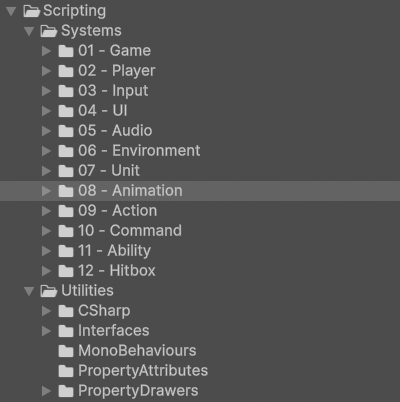
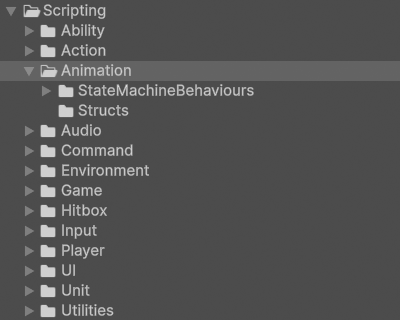
Updated images to reflect path limitation fix

Changed region(s): [[0.06, 0.0, 0.63, 1.0], [0.0, 0.0312, 0.03, 0.0625]]

diff --git a/docs/unity-editor.md b/docs/unity-editor.md
@@ -18,18 +18,18 @@ The [Project window](https://docs.unity3d.com/Manual/ProjectView.html) is locate
 | `Arcabidi`            |  The company folder for all products created by Arcabidi. |
 | `BeatEmUpTemplate`            | The main folder for all files related to the 2.5D Beat 'Em Up Template. |
 | `Assets`            | Contains all assets related to the 2.5D Beat 'Em Up Template. Its subfolders are named after sections from the online [Unity 6 User Manual](https://docs.unity3d.com/6000.0/Documentation/Manual/UnityManual.html) to allow quick references to official documentation.  |
-| `Animation`            | Contains all non-code files related to animation. See the [Animation](scripting/systems/animation.md#animation-folder) page for more information. |
-| `Audio`            | Contains all non-code files related to audio. See the [Audio](scripting/systems/audio.md#audio-folder) page for more information. |
+| `Animation`            | Contains all non-code files related to animation. See the [Animation](systems/animation.md#animation-folder) page for more information. |
+| `Audio`            | Contains all non-code files related to audio. See the [Audio](systems/audio.md#audio-folder) page for more information. |
 | `MaterialsAndShaders`            | Contains all non-code files related to how surfaces are rendered. See the [Materials](https://docs.unity3d.com/Manual/Materials.html) and [Textures](https://docs.unity3d.com/Manual/Textures-landing.html) pages in the Unity 6 User Manual for more information. |
 | `Rendering`            | Contains all non-code files related to how scene content is displayed on screen. See the [Universal Render Pipeline asset](https://docs.unity3d.com/Manual/urp/urp-asset-and-renderer.html) page in the Unity 6 User Manual for more information. |
-| `Scripting`            | Contains all code files. See the [Scripting](scripting/index.md) page for more information. |
+| `Scripting`            | Contains all code files. See the [Systems](systems/index.md#scripting-folder) page for more information. |
 | `Video`            | Contains all non-code files related to video. See the [Video Clip Importer](https://docs.unity3d.com/Manual/class-VideoClip.html) page in the Unity 6 User Manual for more information.|
 | `WorkingInUnity`            | Contains all non-code files related to working in Unity. |
-| `2D`            | Contains all non-code files related to 2D development. See the [PSD Importer](https://docs.unity3d.com/Packages/com.unity.2d.psdimporter@9.0/manual/index.html) page in the Unity 6 User Manual for more information. |
 | `GameObjects`            | Contains all non-code files related to GameObjects. See the [Models](https://docs.unity3d.com/Manual/models.html) and [Prefabs](https://docs.unity3d.com/Manual/Prefabs.html) pages in the Unity 6 User Manual for more information. |
-| `Input`            | Contains all non-code files related to input. See the [Input](scripting/systems/input.md#input-folder) page for more information.|
+| `Input`            | Contains all non-code files related to input. See the [Input](systems/input.md#input-folder) page for more information.|
 | `Scenes`            | Contains all non-code files related to scenes. See the [Scenes](scenes.md) page for more information. |
-| `UI`            | Contains all non-code files related to UI. See the [User Interface](scripting/systems/user-interface.md#ui-folder) page for more information.|
+| `UI`            | Contains all non-code files related to UI. See the [UI](systems/ui.md#ui-folder) page for more information.|
+| `Licenses`            | Contains all licenses associated with any third party assets used in the package. `Third-Party Notices.txt` details which asset uses which license. |
 | `Packages`            | Contains a`manifest.json` file that lists all package dependencies in the 2.5D Beat 'Em Up Template for reference. |
 | `ProjectSettings`            | Contains all [project settings](https://docs.unity3d.com/Manual/comp-ManagerGroup.html) for the 2.5D Beat 'Em Up Template:<br><br>`DynamicsManager` configures [physics collision matrices](https://docs.unity3d.com/Manual/LayerBasedCollision.html).<br>`EditorBuildSettings` sets the [scene list](https://docs.unity3d.com/6000.0/Documentation/Manual/build-profile-scene-list.html). <br>`GraphicsSettings` sets the [default render pipeline](https://docs.unity3d.com/Manual/class-GraphicsSettings.html#:~:text=Always%2Dincluded%20Shaders-,Set%20Default%20Render%20Pipeline%20Asset,-Use%20the%20Default).<br>`ProjectSettings` sets general project settings.<br>`QualitySettings` sets the [render pipeline asset](https://docs.unity3d.com/Manual/class-QualitySettings.html#:~:text=Meshes-,Rendering,-Property).<br>`TagManager` defines [tags and layers](https://docs.unity3d.com/Manual/class-TagManager.html).<br><br>It is recommended to import this package to a clean Unity project to prevent overwriting any existing project settings. After creating one, copy these files to the `[Your Project]/ProjectSettings` folder to overwrite the default project settings. |
 
@@ -39,7 +39,7 @@ The [Project window](https://docs.unity3d.com/Manual/ProjectView.html) is locate
     ![hierarchy_window_1.png](assets/images/hierarchy_window_1.png)
 </figure>
 
-The [Hierarchy window](https://docs.unity3d.com/Manual/Hierarchy.html) is located in the top left corner of the Unity Editor by default. For this template GameObjects in the hierarchy have been divided based on the [system](scripting/systems/index.md) they belong to and sorted by their transforms rather than alphanumerically. For example, in the Training scene above the UIManager is placed under the UI system while the AudioManager is placed under the Audio system.
+The [Hierarchy window](https://docs.unity3d.com/Manual/Hierarchy.html) is located in the top left corner of the Unity Editor by default. For this template GameObjects in the hierarchy have been divided based on the [system](systems/index.md) they belong to and sorted by their transforms rather than alphanumerically. For example, in the Training scene above the UIManager is placed under the UI system while the AudioManager is placed under the Audio system.
 
 !!! Info
 

diff --git a/docs/systems/index.md b/docs/systems/index.md
@@ -1,0 +1,48 @@
+# Systems
+
+!!! Summary
+
+    This page outlines the core systems that make up the 2.5D Beat 'Em Up Template.
+
+## Overview
+
+There are 13 total systems that contribute to the template's core functionality. Some systems are made entirely out of code files while others have both code and non-code aspects. See each system's dedicated page for more information.
+
+<div class="grid cards" markdown>
+- [__Ability__](ability.md)<br>everything and anything units can do
+- [__Action__](action.md)<br>control what a unit knows how to do
+- [__Animation__](animation.md)<br>bring objects in the scene to life
+- [__Audio__](audio.md)<br>play dynamic background music and sound effects
+- [__Command__](command.md)<br>determine when in-game actions should be performed
+- [__Environment__](environment.md)<br>build immersive and responsive worlds
+- [__Game__](game.md)<br>change the game's state and direct its flow
+- [__Hitbox__](hitbox.md)<br>transfer data between two bodies through collision detection
+- [__Input__](input.md)<br>switch between different control schemes
+- [__Player__](player.md)<br>manage both human and AI players
+- [__UI__](ui.md)<br>design custom menus and transitions
+- [__Unit__](unit.md)<br>create, customize and manage the lifetime of in-game units
+- [__Utilities__](utilities.md)<br>general-purpose tools that can be used anywhere, in any game, when needed
+</div>
+
+## Scripting folder
+
+All of the code files for each system are located at `BeatEmUpTemplate/Assets/Scripting`.
+
+<figure markdown="span">
+    ![scripting.png](../assets/images/scripting.png)
+</figure>
+
+Each folder is further divided by script type:
+
+| <div style="width:190px" /> Folder Name | Description                          |
+| ---------------: | :----------------------------------- |
+| `CSharp`            | Contains scripts that are not meant to be attached to GameObjects in the scene. Many of them represent static event classes that are meant to be invoked, or are abstract classes representing concepts like [Players](player.md#players) or [Teams](unit.md#teams). |
+| `Enums`            | Contains groups of related constants that are meant to be used by other scripts. All classes in these folders use the `enum` keyword in their declaration. |
+| `Interfaces`            | Contain collections of method signatures and properties that can be implemented by other scripts. All classes in these folder use the `interface` keyword in their declaration.<br><br>Interfaces act like a contract; when a class implements an interface, an instance of that class can also be treated as an instance of that interface. This functionality means that two unrelated classes can be treated in the same way through an interface that they both implement. |
+| `MonoBehaviours`            | Contain scripts that are meant to be attached to GameObjects in the scene as components. All classes in these folders inherit from Unity's [MonoBehaviour](https://docs.unity3d.com/6000.0/Documentation/Manual/class-MonoBehaviour.html) class. Many of them represent managers, controllers, and responders specific to scenes or prefabs. |
+| `PropertyAttributes`            | Contains custom attributes for script variables. All classes in this folder derive from Unity's base [PropertyAttribute](https://docs.unity3d.com/6000.0/Documentation/ScriptReference/PropertyAttribute.html) class. |
+| `PropertyDrawers`            | Contains custom drawers to control how script variables with custom PropertyAttributes appear in the Inspector. All classes in this folder derive from Unity's base [PropertyDrawer](https://docs.unity3d.com/6000.0/Documentation/ScriptReference/PropertyDrawer.html) class. |
+| `ScriptableObjects`            | Contains centralized data that can be conveniently accessed from scenes and assets within a project. All classes in this folder derive from Unity's base [ScriptableObject](https://docs.unity3d.com/6000.0/Documentation/ScriptReference/ScriptableObject.html) class.<br><br>ScriptableObjects are stored on disk and live independently of GameObjects and class instances. They are used as data containers to save large amounts of data, reducing a project’s memory usage by not duplicating values. |
+| `StateMachineBehaviours`            | Contains components that can be added to a state machine state. All classes in this folder derive from Unity's base [StateMachineBehaviour](https://docs.unity3d.com/ScriptReference/StateMachineBehaviour.html) class. See the [Animation](animation.md#statemachinebehaviours) page for more information. |
+| `Structs`            | Contains user-defined data types that combine fields of different types underneath a single type. All classes in this folder use the `struct` keyword in their declaration. |
+| `VisualElements`            | Contains objects that are part of the UIElements visual tree. All classes in this folder derive from Unity's base [VisualElement](https://docs.unity3d.com/6000.0/Documentation/ScriptReference/UIElements.VisualElement.html) class. See the [UI](ui.md#visualelements) page for more information. |

diff --git a/docs/scenes.md b/docs/scenes.md
@@ -31,7 +31,7 @@ All [scene](https://docs.unity3d.com/Manual/CreatingScenes.html) files are locat
 | <div style="width:160px" /> Scene Name | Description                          |
 | ---------------: | :----------------------------------- |
 | `Initialization`            | The only non-Addressable scene in the project and the initial scene in the final build. It is near empty by design to minimize build size since all other scenes can be loaded dynamically as needed. All this scene does is load the Persistent scene before unloading itself. |
-| `Persistent`            | This scene persists throughout the lifetime of the game and does not unload until the application exits. It contains all essential GameObjects and scripts that shouldn’t be destroyed between scenes such as the [SceneLoader](scripting/systems/game.md#sceneloaders) and [Cursor](scripting/systems/user-interface.md#cursor).<br><br>It allows these core game systems to initialize completely before additively loading one of the following scenes (by default this is the Boot scene, but it can load into any other scene directly for development purposes). |
+| `Persistent`            | This scene persists throughout the lifetime of the game and does not unload until the application exits. It contains all essential GameObjects and scripts that shouldn’t be destroyed between scenes such as the [SceneLoader](systems/game.md#sceneloaders) and [Cursor](systems/ui.md#cursor).<br><br>It allows these core game systems to initialize completely before additively loading one of the following scenes (by default this is the Boot scene, but it can load into any other scene directly for development purposes). |
 | `Boot`            | The first scene that has any visual elements. It plays the game’s opening credits while asynchronously loading the Title scene in the background. Once it is 90% loaded the player can either skip the rest of the credits or wait until they finish, after which the Title scene will fully load and the Boot scene will unload. |
 | `Title`            | The scene that contains the game’s title along with the main menu. The player can choose to Start The Game after which the Training Scene will load and the Title scene will unload. |
 | `Training`            | The scene that contains the core gameplay loop. It is presented in 2.5D, where graphics are in 3D but gameplay is in 2D. The player fights until all enemies are defeated or they are.<br><br>If the player is defeated they will have until a countdown timer expires to attempt to continue. If they fail to continue the Boot scene will load and the Training scene will unload. If they successfully continue the Training scene will reload instead.<br><br>If the enemy is defeated the Title scene will load and the Training scene will unload. |

diff --git a/docs/systems/ui.md b/docs/systems/ui.md
@@ -1,4 +1,4 @@
-# User Interface (UI)
+# UI
 
 !!! Summary
 
@@ -90,7 +90,7 @@ VisualTrees representing entire scenes are referenced by the [UIDocument](https:
 
 ## Scripting
 
-The code files in this section are at `BeatEmUpTemplate/Assets/Scripting/Systems/04 - UI`.
+The code files in this section are at `BeatEmUpTemplate/Assets/Scripting/UI`.
 
 <figure markdown="span">
     ![ui_scripting.png](../../assets/images/ui_scripting.png)
@@ -98,7 +98,7 @@ The code files in this section are at `BeatEmUpTemplate/Assets/Scripting/Systems
 
 ### CSharp
 
-These scripts are not meant to be attached to GameObjects in the scene. Many of them represent static event classes that are meant to be invoked, or are abstract classes representing concepts.
+These scripts are not meant to be attached to GameObjects in the scene. Many of them represent static event classes that are meant to be invoked or are abstract classes representing concepts.
 
 #### UIEvents
 

diff --git a/docs/systems/player.md b/docs/systems/player.md
@@ -20,7 +20,7 @@ For this template we have opted not to use Unity's default Player Input Manager 
 
 ## Scripting
 
-The code files in this section are at `BeatEmUpTemplate/Assets/Scripting/Systems/02 - Player`.
+The code files in this section are at `BeatEmUpTemplate/Assets/Scripting/Player`.
 
 <figure markdown="span">
     ![player_scripting.png](../../assets/images/player_scripting.png)
@@ -28,7 +28,7 @@ The code files in this section are at `BeatEmUpTemplate/Assets/Scripting/Systems
 
 ### CSharp
 
-These scripts are not meant to be attached to GameObjects in the scene. Many of them represent static event classes that are meant to be invoked, or are abstract classes representing concepts.
+These scripts are not meant to be attached to GameObjects in the scene. Many of them represent static event classes that are meant to be invoked or are abstract classes representing concepts.
 
 #### HumanPlayerEvents
 

diff --git a/docs/systems/audio.md b/docs/systems/audio.md
@@ -16,7 +16,7 @@ Each subfolder is named after the source of the [AudioClips](https://docs.unity3
 
 ## Scripting
 
-The code files in this section are at `BeatEmUpTemplate/Assets/Scripting/Systems/05 - Audio`.
+The code files in this section are at `BeatEmUpTemplate/Assets/Scripting/Audio`.
 
 <figure markdown="span">
     ![audio_scripting.png](../../assets/images/audio_scripting.png)
@@ -24,7 +24,7 @@ The code files in this section are at `BeatEmUpTemplate/Assets/Scripting/Systems
 
 ### CSharp
 
-These scripts are not meant to be attached to GameObjects in the scene. Many of them represent static event classes that are meant to be invoked, or are abstract classes representing concepts.
+These scripts are not meant to be attached to GameObjects in the scene. Many of them represent static event classes that are meant to be invoked or are abstract classes representing concepts.
 
 #### AudioEvents
 

diff --git a/docs/systems/input.md b/docs/systems/input.md
@@ -58,7 +58,7 @@ The non-code files in this section are in the `InputSystem` subfolder.
 
 ## Scripting
 
-The code files in this section are at `BeatEmUpTemplate/Assets/Scripting/Systems/03 - Input`.
+The code files in this section are at `BeatEmUpTemplate/Assets/Scripting/Input`.
 
 <figure markdown="span">
     ![input_scripting.png](../../assets/images/input_scripting.png)
@@ -66,7 +66,7 @@ The code files in this section are at `BeatEmUpTemplate/Assets/Scripting/Systems
 
 ### CSharp
 
-These scripts are not meant to be attached to GameObjects in the scene. Many of them represent static event classes that are meant to be invoked, or are abstract classes representing concepts.
+These scripts are not meant to be attached to GameObjects in the scene. Many of them represent static event classes that are meant to be invoked or are abstract classes representing concepts.
 
 #### InputEvents
 

diff --git a/docs/systems/command.md b/docs/systems/command.md
@@ -6,7 +6,7 @@
 
 ## Scripting
 
-The code files in this section are at `BeatEmUpTemplate/Assets/Scripting/Systems/10 - Command`.
+The code files in this section are at `BeatEmUpTemplate/Assets/Scripting/Command`.
 
 <figure markdown="span">
     ![command_scripting.png](../../assets/images/command_scripting.png)
@@ -14,7 +14,7 @@ The code files in this section are at `BeatEmUpTemplate/Assets/Scripting/Systems
 
 ### CSharp
 
-These scripts are not meant to be attached to GameObjects in the scene. Many of them represent static event classes that are meant to be invoked, or are abstract classes representing concepts.
+These scripts are not meant to be attached to GameObjects in the scene. Many of them represent static event classes that are meant to be invoked or are abstract classes representing concepts.
 
 #### Commands
 

diff --git a/docs/systems/ability.md b/docs/systems/ability.md
@@ -6,7 +6,7 @@
 
 ## Scripting
 
-All code files below are at `BeatEmUpTemplate/Assets/Scripting/Systems/11 - Ability`.
+The code files in this section are at `BeatEmUpTemplate/Assets/Scripting/Ability`.
 
 <figure markdown="span">
     ![ability_scripting.png](../../assets/images/ability_scripting.png)
@@ -14,7 +14,7 @@ All code files below are at `BeatEmUpTemplate/Assets/Scripting/Systems/11 - Abil
 
 ### CSharp
 
-These scripts are not meant to be attached to GameObjects in the scene. Many of them represent static event classes that are meant to be invoked, or are abstract classes representing concepts.
+These scripts are not meant to be attached to GameObjects in the scene. Many of them represent static event classes that are meant to be invoked or are abstract classes representing concepts.
 
 #### AbilityData
 

diff --git a/docs/systems/game.md b/docs/systems/game.md
@@ -6,7 +6,7 @@
 
 ## Scripting
 
-The code files in this section are at `BeatEmUpTemplate/Assets/Scripting/Systems/01 - Game`.
+The code files in this section are at `BeatEmUpTemplate/Assets/Scripting/Game`.
 
 <figure markdown="span">
     ![game_scripting.png](../../assets/images/game_scripting.png)
@@ -14,7 +14,7 @@ The code files in this section are at `BeatEmUpTemplate/Assets/Scripting/Systems
 
 ### CSharp
 
-These scripts are not meant to be attached to GameObjects in the scene. Many of them represent static event classes that are meant to be invoked, or are abstract classes representing concepts.
+These scripts are not meant to be attached to GameObjects in the scene. Many of them represent static event classes that are meant to be invoked or are abstract classes representing concepts.
 
 #### Constants
 

diff --git a/docs/systems/unit.md b/docs/systems/unit.md
@@ -6,7 +6,7 @@
 
 ## Scripting
 
-The code files in this section are at `BeatEmUpTemplate/Assets/Scripting/Systems/07 - Unit`.
+The code files in this section are at `BeatEmUpTemplate/Assets/Scripting/Unit`.
 
 <figure markdown="span">
     ![unit_scripting.png](../../assets/images/unit_scripting.png)
@@ -14,7 +14,7 @@ The code files in this section are at `BeatEmUpTemplate/Assets/Scripting/Systems
 
 ### CSharp
 
-These scripts are not meant to be attached to GameObjects in the scene. Many of them represent static event classes that are meant to be invoked, or are abstract classes representing concepts.
+These scripts are not meant to be attached to GameObjects in the scene. Many of them represent static event classes that are meant to be invoked or are abstract classes representing concepts.
 
 #### Teams
 

diff --git a/docs/index.md b/docs/index.md
@@ -33,9 +33,7 @@ This package combines 2D visuals with 3D depth to add a modern feel to the class
 - [__Unity Editor__](unity-editor.md)<br>understand how the project is organized in the Unity Editor
 - [__Assets__](assets.md)<br>learn how to dynamically load and unload items at runtime
 - [__Scenes__](scenes.md)<br>take control of how your game transitions between its sections
-- [__Scripting__](scripting/index.md)<br>create custom code to fit your game's needs
-- [__Systems__](scripting/systems/index.md)<br>deep dive into the twelve game systems that power the template
-- [__Utilities__](scripting/utilities.md)<br>supplementary code that can be used for any game when needed
+- [__Systems__](systems/index.md)<br>deep dive into the systems that power the template
 </div>
 
 ## Required packages
